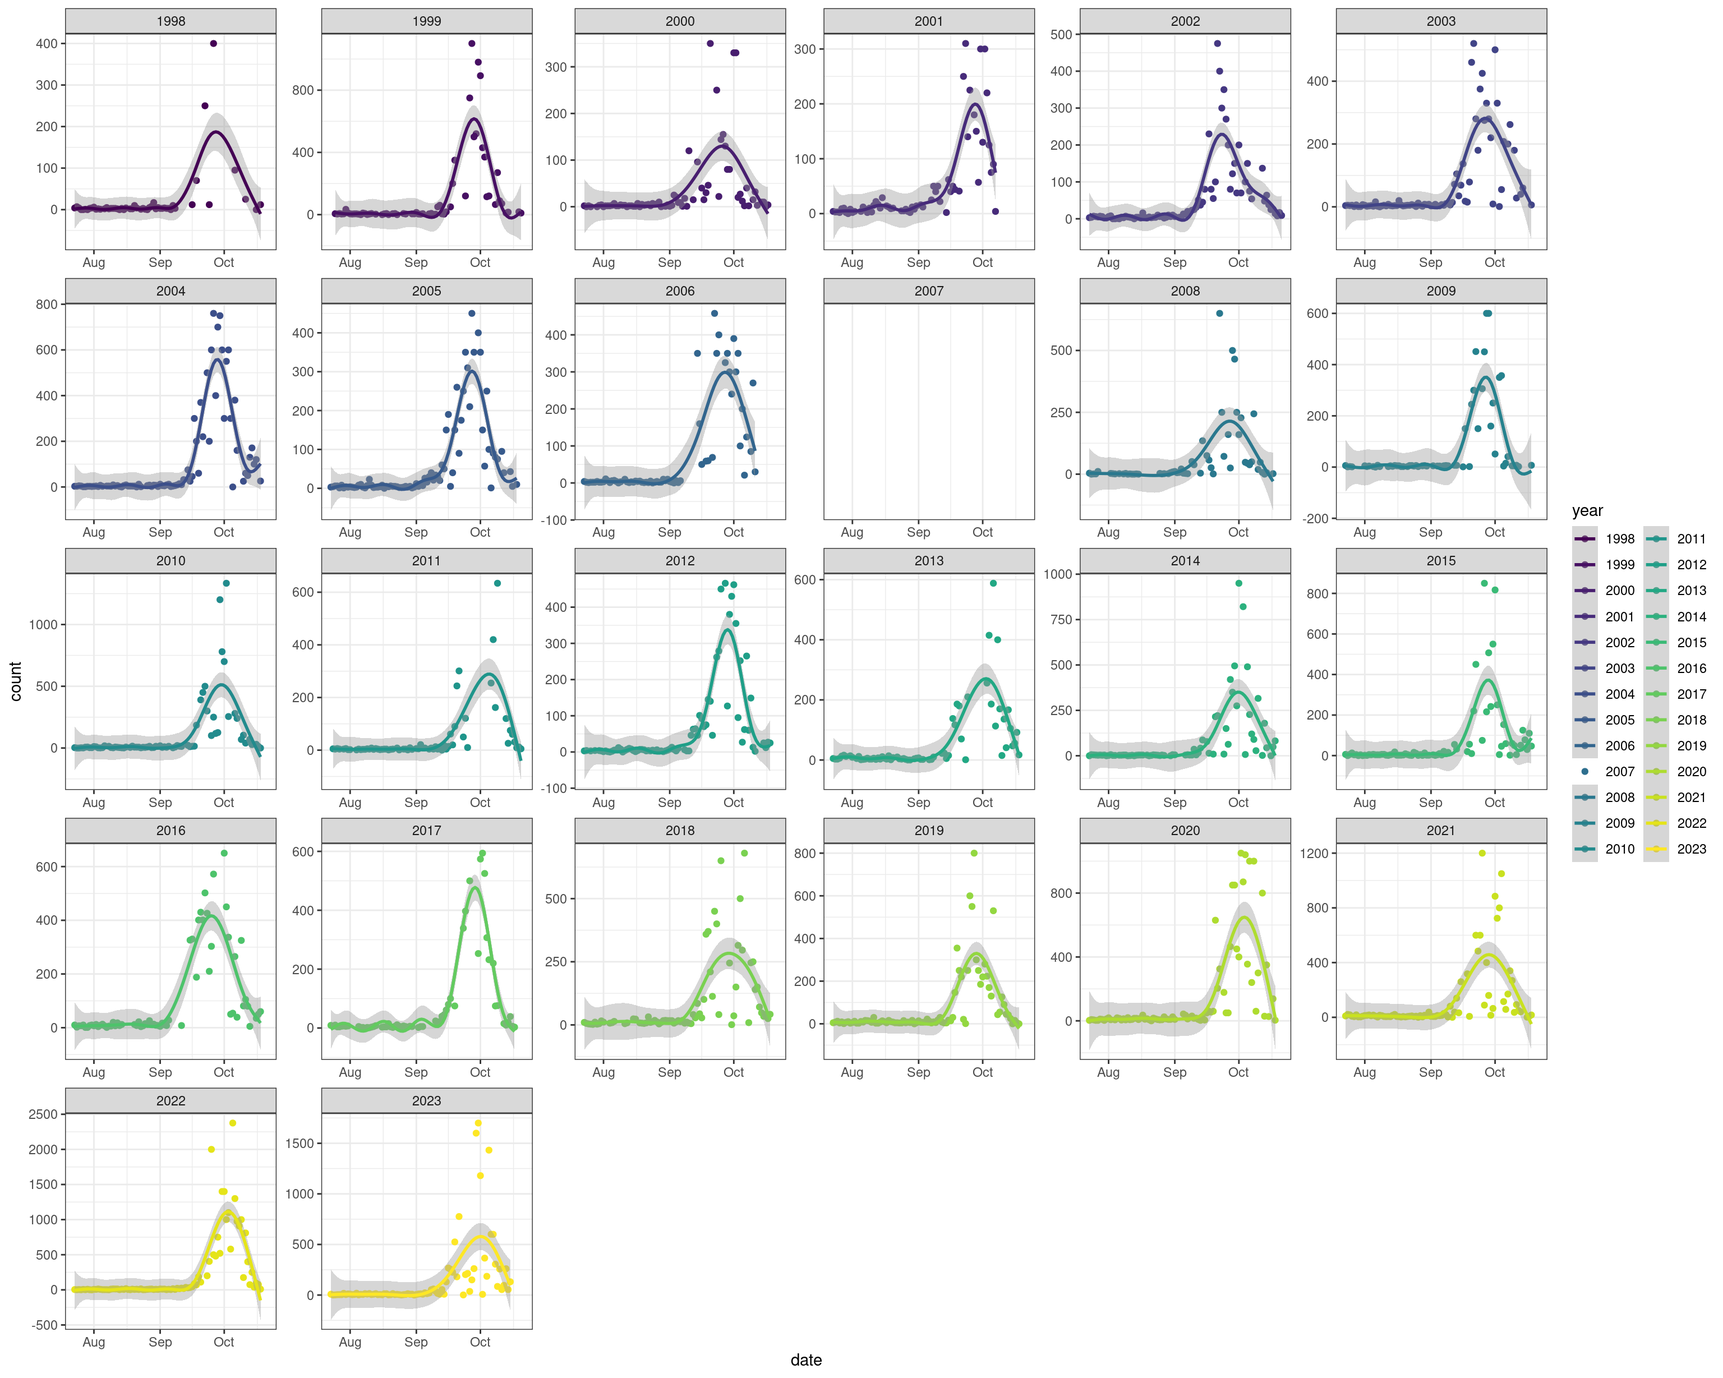
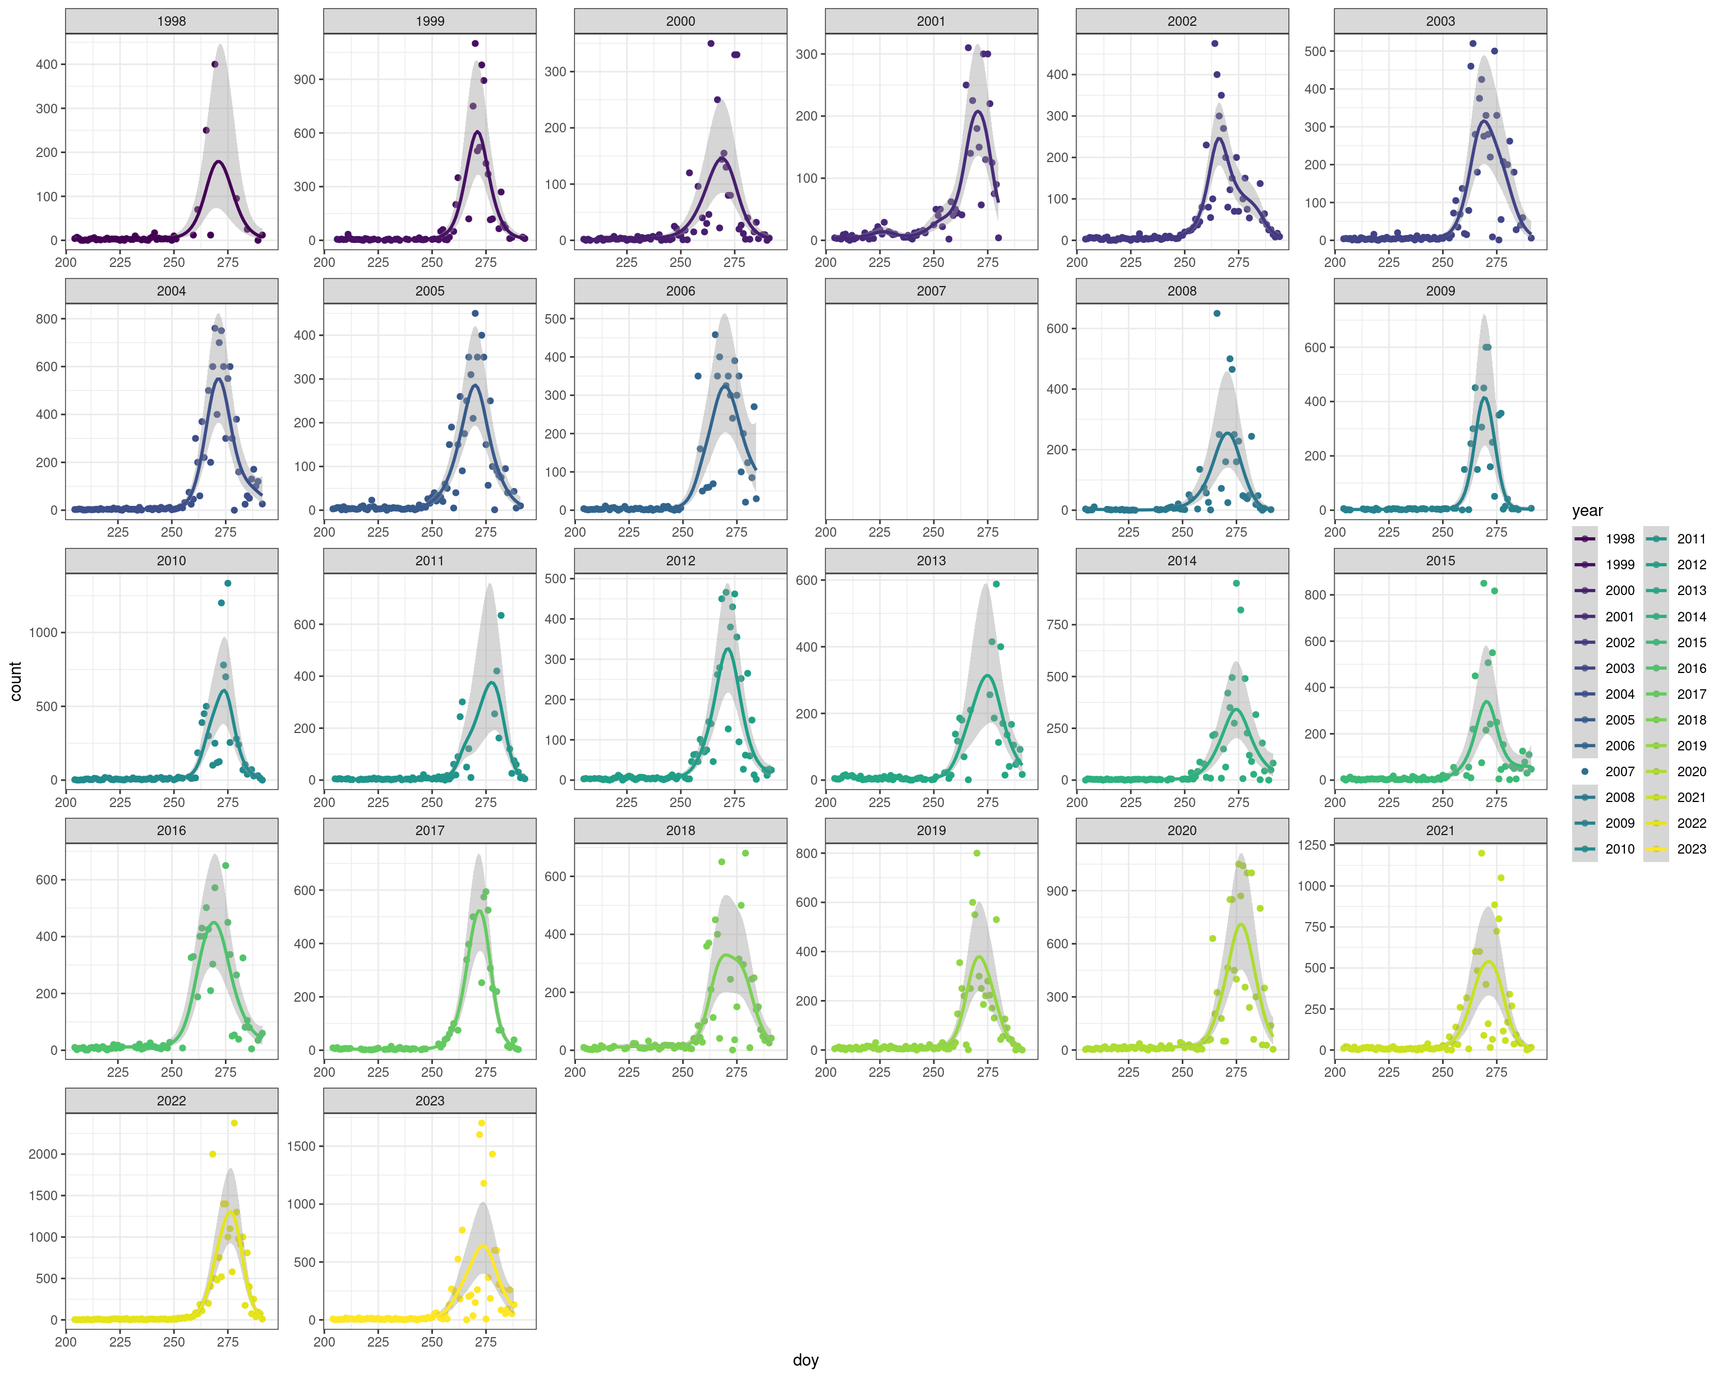
Update initial look to match GAMs used later

diff --git a/docs/01_initial_exploration.html b/docs/01_initial_exploration.html
@@ -7,7 +7,7 @@
 <meta name="viewport" content="width=device-width, initial-scale=1.0, user-scalable=yes">
 
 <meta name="author" content="Steffi LaZerte">
-<meta name="dcterms.date" content="2024-05-23">
+<meta name="dcterms.date" content="2024-07-05">
 
 <title>Vulture Migration on Vancouver Island - Initial Exploration</title>
 <style>
@@ -265,7 +265,7 @@ pre > code.sourceCode > span > a:first-child::before { text-decoration: underlin
     <div>
     <div class="quarto-title-meta-heading">Published</div>
     <div class="quarto-title-meta-contents">
-      <p class="date">May 23, 2024</p>
+      <p class="date">July 5, 2024</p>
     </div>
   </div>
   
@@ -417,12 +417,14 @@ pre > code.sourceCode > span > a:first-child::before { text-decoration: underlin
 <h2 class="anchored" data-anchor-id="quick-look-at-the-data">Quick look at the data</h2>
 <p><strong>Too see full screen: Right-click and select “Open Image in New Tab” (or similar)</strong></p>
 <div class="cell">
-<div class="sourceCode cell-code" id="cb13"><pre class="sourceCode r code-with-copy"><code class="sourceCode r"><span id="cb13-1"><a href="#cb13-1" aria-hidden="true" tabindex="-1"></a><span class="fu">ggplot</span>(v, <span class="fu">aes</span>(<span class="at">x =</span> date, <span class="at">y =</span> count, <span class="at">group =</span> year, <span class="at">colour =</span> year)) <span class="sc">+</span></span>
+<div class="sourceCode cell-code" id="cb13"><pre class="sourceCode r code-with-copy"><code class="sourceCode r"><span id="cb13-1"><a href="#cb13-1" aria-hidden="true" tabindex="-1"></a><span class="fu">ggplot</span>(v, <span class="fu">aes</span>(<span class="at">x =</span> doy, <span class="at">y =</span> count, <span class="at">group =</span> year, <span class="at">colour =</span> year)) <span class="sc">+</span></span>
 <span id="cb13-2"><a href="#cb13-2" aria-hidden="true" tabindex="-1"></a>  <span class="fu">theme_bw</span>() <span class="sc">+</span></span>
 <span id="cb13-3"><a href="#cb13-3" aria-hidden="true" tabindex="-1"></a>  <span class="fu">geom_point</span>(<span class="at">na.rm =</span> <span class="cn">TRUE</span>) <span class="sc">+</span></span>
-<span id="cb13-4"><a href="#cb13-4" aria-hidden="true" tabindex="-1"></a>  <span class="fu">stat_smooth</span>(<span class="at">method =</span> <span class="st">"gam"</span>, <span class="at">formula =</span> y <span class="sc">~</span> <span class="fu">s</span>(x, <span class="at">k =</span> <span class="dv">10</span>), <span class="at">na.rm =</span> <span class="cn">TRUE</span>) <span class="sc">+</span></span>
-<span id="cb13-5"><a href="#cb13-5" aria-hidden="true" tabindex="-1"></a>  <span class="fu">facet_wrap</span>(<span class="sc">~</span>year, <span class="at">scales =</span> <span class="st">"free"</span>) <span class="sc">+</span></span>
-<span id="cb13-6"><a href="#cb13-6" aria-hidden="true" tabindex="-1"></a>  <span class="fu">scale_colour_viridis_d</span>()</span></code><button title="Copy to Clipboard" class="code-copy-button"><i class="bi"></i></button></pre></div>
+<span id="cb13-4"><a href="#cb13-4" aria-hidden="true" tabindex="-1"></a>  <span class="fu">stat_smooth</span>(<span class="at">method =</span> <span class="st">"gam"</span>, <span class="at">formula =</span> y <span class="sc">~</span> <span class="fu">s</span>(x, <span class="at">k =</span> <span class="dv">20</span>), </span>
+<span id="cb13-5"><a href="#cb13-5" aria-hidden="true" tabindex="-1"></a>              <span class="at">method.args =</span> <span class="fu">list</span>(<span class="at">method =</span> <span class="st">"REML"</span>, <span class="at">family =</span> <span class="st">"nb"</span>), <span class="at">na.rm =</span> <span class="cn">TRUE</span>, </span>
+<span id="cb13-6"><a href="#cb13-6" aria-hidden="true" tabindex="-1"></a>              <span class="at">level =</span> <span class="fl">0.95</span>) <span class="sc">+</span></span>
+<span id="cb13-7"><a href="#cb13-7" aria-hidden="true" tabindex="-1"></a>  <span class="fu">facet_wrap</span>(<span class="sc">~</span>year, <span class="at">scales =</span> <span class="st">"free"</span>) <span class="sc">+</span></span>
+<span id="cb13-8"><a href="#cb13-8" aria-hidden="true" tabindex="-1"></a>  <span class="fu">scale_colour_viridis_d</span>()</span></code><button title="Copy to Clipboard" class="code-copy-button"><i class="bi"></i></button></pre></div>
 <div class="cell-output-display">
 <div>
 <figure class="figure">
@@ -580,7 +582,7 @@ Basis dimension (k) checking results. Low p-value (k-index&lt;1) may
 indicate that k is too low, especially if edf is close to k'.
 
          k'  edf k-index p-value
-s(doy) 9.00 5.48    1.01    0.77</code></pre>
+s(doy) 9.00 5.48    1.01    0.76</code></pre>
 </div>
 <details class="code-fold">
 <summary>Code</summary>
@@ -722,7 +724,8 @@ s(doy) 9.00 5.48    1.01    0.77</code></pre>
 </details>
 <div class="cell-output cell-output-stderr">
 <pre><code>Warning in geom_point(x = d$doy[d$ci99_upper == min(d$ci99_upper)], y = min(d$ci99_upper), : All aesthetics have length 1, but the data has 87 rows.
-ℹ Did you mean to use `annotate()`?</code></pre>
+ℹ Please consider using `annotate()` or provide this layer with data containing
+  a single row.</code></pre>
 </div>
 <div class="cell-output cell-output-stderr">
 <pre><code>Warning: Use of `d$ci99_upper` is discouraged.
@@ -892,118 +895,119 @@ Session Info
  collate  en_CA.UTF-8
  ctype    en_CA.UTF-8
  tz       America/Winnipeg
- date     2024-05-23
+ date     2024-07-05
  pandoc   3.1.1 @ /usr/lib/rstudio/resources/app/bin/quarto/bin/tools/ (via rmarkdown)
 
 ─ Packages ───────────────────────────────────────────────────────────────────
- package      * version    date (UTC) lib source
- bit            4.0.5      2022-11-15 [1] CRAN (R 4.3.0)
- bit64          4.0.5      2020-08-30 [1] CRAN (R 4.3.0)
- boot           1.3-30     2024-02-26 [4] CRAN (R 4.3.3)
- cachem         1.0.8      2023-05-01 [1] CRAN (R 4.3.0)
- cellranger     1.1.0      2016-07-27 [1] CRAN (R 4.3.0)
- cli            3.6.2      2023-12-11 [1] CRAN (R 4.3.2)
- codetools      0.2-19     2023-02-01 [4] CRAN (R 4.2.2)
- colorspace     2.1-0      2023-01-23 [1] CRAN (R 4.3.0)
- crayon         1.5.2      2022-09-29 [1] CRAN (R 4.3.0)
- devtools       2.4.5      2022-10-11 [1] CRAN (R 4.3.0)
- DHARMa         0.4.6      2022-09-08 [1] CRAN (R 4.3.1)
- digest         0.6.34     2024-01-11 [1] CRAN (R 4.3.2)
- doParallel     1.0.17     2022-02-07 [1] CRAN (R 4.3.1)
- dplyr        * 1.1.4      2023-11-17 [1] CRAN (R 4.3.2)
- ellipsis       0.3.2      2021-04-29 [1] CRAN (R 4.3.0)
- evaluate       0.23       2023-11-01 [1] CRAN (R 4.3.1)
- fansi          1.0.6      2023-12-08 [1] CRAN (R 4.3.2)
- farver         2.1.1      2022-07-06 [1] CRAN (R 4.3.0)
- fastmap        1.1.1      2023-02-24 [1] CRAN (R 4.3.0)
- forcats      * 1.0.0      2023-01-29 [1] CRAN (R 4.3.0)
- foreach        1.5.2      2022-02-02 [1] CRAN (R 4.3.0)
- fs             1.6.3      2023-07-20 [1] CRAN (R 4.3.1)
- gamm4          0.2-6      2020-04-03 [1] CRAN (R 4.3.1)
- gap            1.5-3      2023-08-26 [1] CRAN (R 4.3.1)
- gap.datasets   0.0.6      2023-08-25 [1] CRAN (R 4.3.1)
- generics       0.1.3      2022-07-05 [1] CRAN (R 4.3.0)
- GGally         2.1.2      2021-06-21 [1] CRAN (R 4.3.1)
- ggplot2      * 3.5.0      2024-02-23 [1] CRAN (R 4.3.2)
- glue           1.7.0      2024-01-09 [1] CRAN (R 4.3.2)
- gridExtra      2.3        2017-09-09 [1] CRAN (R 4.3.0)
- gtable         0.3.4      2023-08-21 [1] CRAN (R 4.3.1)
- hms            1.1.3      2023-03-21 [1] CRAN (R 4.3.0)
- htmltools      0.5.7      2023-11-03 [1] CRAN (R 4.3.1)
- htmlwidgets    1.6.4      2023-12-06 [1] CRAN (R 4.3.2)
- httpuv         1.6.14     2024-01-26 [1] CRAN (R 4.3.2)
- iterators      1.0.14     2022-02-05 [1] CRAN (R 4.3.0)
- jsonlite       1.8.8      2023-12-04 [1] CRAN (R 4.3.2)
- KernSmooth     2.23-22    2023-07-10 [1] CRAN (R 4.3.1)
- knitr          1.45       2023-10-30 [1] CRAN (R 4.3.1)
- labeling       0.4.3      2023-08-29 [1] CRAN (R 4.3.1)
- later          1.3.2      2023-12-06 [1] CRAN (R 4.3.2)
- lattice        0.22-5     2023-10-24 [4] CRAN (R 4.3.1)
- lifecycle      1.0.4      2023-11-07 [1] CRAN (R 4.3.2)
- lme4           1.1-35.1   2023-11-05 [1] CRAN (R 4.3.1)
- lubridate    * 1.9.3      2023-09-27 [1] CRAN (R 4.3.1)
- magrittr       2.0.3      2022-03-30 [1] CRAN (R 4.3.0)
- MASS           7.3-60.0.1 2024-01-13 [1] CRAN (R 4.3.2)
- Matrix         1.6-5      2024-01-11 [1] CRAN (R 4.3.2)
- matrixStats    1.0.0      2023-06-02 [1] CRAN (R 4.3.1)
- memoise        2.0.1      2021-11-26 [1] CRAN (R 4.3.0)
- mgcv         * 1.9-0      2023-07-11 [1] CRAN (R 4.3.1)
- mgcViz         0.1.11     2023-10-06 [1] CRAN (R 4.3.1)
- mime           0.12       2021-09-28 [1] CRAN (R 4.3.0)
- miniUI         0.1.1.1    2018-05-18 [1] CRAN (R 4.3.0)
- minqa          1.2.6      2023-09-11 [1] CRAN (R 4.3.1)
- munsell        0.5.0      2018-06-12 [1] CRAN (R 4.3.0)
- nlme         * 3.1-164    2023-11-27 [1] CRAN (R 4.3.2)
- nloptr         2.0.3      2022-05-26 [1] CRAN (R 4.3.0)
- patchwork    * 1.2.0      2024-01-08 [1] CRAN (R 4.3.2)
- pillar         1.9.0      2023-03-22 [1] CRAN (R 4.3.0)
- pkgbuild       1.4.3      2023-12-10 [1] CRAN (R 4.3.2)
- pkgconfig      2.0.3      2019-09-22 [1] CRAN (R 4.3.0)
- pkgload        1.3.3      2023-09-22 [1] CRAN (R 4.3.1)
- plyr           1.8.9      2023-10-02 [1] CRAN (R 4.3.1)
- profvis        0.3.8      2023-05-02 [1] CRAN (R 4.3.1)
- promises       1.2.1      2023-08-10 [1] CRAN (R 4.3.1)
- purrr        * 1.0.2      2023-08-10 [1] CRAN (R 4.3.1)
- qgam           1.3.4      2021-11-22 [1] CRAN (R 4.3.1)
- R6             2.5.1      2021-08-19 [1] CRAN (R 4.3.0)
- rbibutils      2.2.16     2023-10-25 [1] CRAN (R 4.3.1)
- RColorBrewer   1.1-3      2022-04-03 [1] CRAN (R 4.3.0)
- Rcpp           1.0.12     2024-01-09 [1] CRAN (R 4.3.2)
- Rdpack         2.5        2023-08-21 [1] CRAN (R 4.3.1)
- readr        * 2.1.5      2024-01-10 [1] CRAN (R 4.3.2)
- readxl       * 1.4.3      2023-07-06 [1] CRAN (R 4.3.1)
- remotes        2.4.2.1    2023-07-18 [1] CRAN (R 4.3.2)
- reshape        0.8.9      2022-04-12 [1] CRAN (R 4.3.1)
- rlang          1.1.3      2024-01-10 [1] CRAN (R 4.3.2)
- rmarkdown      2.25       2023-09-18 [1] CRAN (R 4.3.1)
- rstudioapi     0.15.0     2023-07-07 [1] CRAN (R 4.3.1)
- scales         1.3.0      2023-11-28 [1] CRAN (R 4.3.2)
- sessioninfo    1.2.2      2021-12-06 [1] CRAN (R 4.3.0)
- shiny          1.8.0      2023-11-17 [1] CRAN (R 4.3.2)
- stringi        1.8.3      2023-12-11 [1] CRAN (R 4.3.2)
- stringr      * 1.5.1      2023-11-14 [1] CRAN (R 4.3.2)
- tibble       * 3.2.1      2023-03-20 [1] CRAN (R 4.3.0)
- tidyr        * 1.3.1      2024-01-24 [1] CRAN (R 4.3.2)
- tidyselect     1.2.0      2022-10-10 [1] CRAN (R 4.3.0)
- tidyverse    * 2.0.0      2023-02-22 [1] CRAN (R 4.3.0)
- timechange     0.3.0      2024-01-18 [1] CRAN (R 4.3.2)
- tzdb           0.4.0      2023-05-12 [1] CRAN (R 4.3.1)
- urlchecker     1.0.1      2021-11-30 [1] CRAN (R 4.3.0)
- usethis        2.2.2      2023-07-06 [1] CRAN (R 4.3.1)
- utf8           1.2.4      2023-10-22 [1] CRAN (R 4.3.1)
- vctrs          0.6.5      2023-12-01 [1] CRAN (R 4.3.2)
- viridis        0.6.5      2024-01-29 [1] CRAN (R 4.3.2)
- viridisLite    0.4.2      2023-05-02 [1] CRAN (R 4.3.1)
- vroom          1.6.5      2023-12-05 [1] CRAN (R 4.3.2)
- withr          3.0.0      2024-01-16 [1] CRAN (R 4.3.2)
- xfun           0.42       2024-02-08 [1] CRAN (R 4.3.2)
- xtable         1.8-4      2019-04-21 [1] CRAN (R 4.3.0)
- yaml           2.3.8      2023-12-11 [1] CRAN (R 4.3.2)
+ ! package      * version  date (UTC) lib source
+ P bit            4.0.5    2022-11-15 [?] CRAN (R 4.4.0)
+ P bit64          4.0.5    2020-08-30 [?] CRAN (R 4.4.0)
+ P boot           1.3-30   2024-02-26 [?] CRAN (R 4.3.3)
+ P cachem         1.1.0    2024-05-16 [?] CRAN (R 4.4.0)
+ P cellranger     1.1.0    2016-07-27 [?] CRAN (R 4.4.0)
+ P cli            3.6.2    2023-12-11 [?] CRAN (R 4.4.0)
+ P codetools      0.2-19   2023-02-01 [?] CRAN (R 4.2.2)
+ P colorspace     2.1-0    2023-01-23 [?] CRAN (R 4.4.0)
+ P crayon         1.5.2    2022-09-29 [?] CRAN (R 4.4.0)
+ P devtools       2.4.5    2022-10-11 [?] CRAN (R 4.4.0)
+ P DHARMa         0.4.6    2022-09-08 [?] CRAN (R 4.4.0)
+ P digest         0.6.35   2024-03-11 [?] CRAN (R 4.4.0)
+ P doParallel     1.0.17   2022-02-07 [?] CRAN (R 4.4.0)
+ P dplyr        * 1.1.4    2023-11-17 [?] CRAN (R 4.4.0)
+ P ellipsis       0.3.2    2021-04-29 [?] CRAN (R 4.4.0)
+ P evaluate       0.23     2023-11-01 [?] CRAN (R 4.4.0)
+ P fansi          1.0.6    2023-12-08 [?] CRAN (R 4.4.0)
+ P farver         2.1.2    2024-05-13 [?] CRAN (R 4.4.0)
+ P fastmap        1.2.0    2024-05-15 [?] CRAN (R 4.4.0)
+ P forcats      * 1.0.0    2023-01-29 [?] CRAN (R 4.4.0)
+ P foreach        1.5.2    2022-02-02 [?] CRAN (R 4.4.0)
+ P fs             1.6.4    2024-04-25 [?] CRAN (R 4.4.0)
+ P gamm4          0.2-6    2020-04-03 [?] CRAN (R 4.4.0)
+ P gap            1.5-3    2023-08-26 [?] CRAN (R 4.4.0)
+ P gap.datasets   0.0.6    2023-08-25 [?] CRAN (R 4.4.0)
+ P generics       0.1.3    2022-07-05 [?] CRAN (R 4.4.0)
+ P GGally         2.2.1    2024-02-14 [?] CRAN (R 4.4.0)
+ P ggplot2      * 3.5.1    2024-04-23 [?] CRAN (R 4.4.0)
+ P ggstats        0.6.0    2024-04-05 [?] CRAN (R 4.4.0)
+ P glue           1.7.0    2024-01-09 [?] CRAN (R 4.4.0)
+ P gridExtra      2.3      2017-09-09 [?] CRAN (R 4.4.0)
+ P gtable         0.3.5    2024-04-22 [?] CRAN (R 4.4.0)
+ P hms            1.1.3    2023-03-21 [?] CRAN (R 4.4.0)
+ P htmltools      0.5.8.1  2024-04-04 [?] CRAN (R 4.4.0)
+ P htmlwidgets    1.6.4    2023-12-06 [?] CRAN (R 4.4.0)
+ P httpuv         1.6.15   2024-03-26 [?] CRAN (R 4.4.0)
+ P iterators      1.0.14   2022-02-05 [?] CRAN (R 4.4.0)
+ P jsonlite       1.8.8    2023-12-04 [?] CRAN (R 4.4.0)
+ P KernSmooth     2.23-24  2024-05-17 [?] CRAN (R 4.4.0)
+ P knitr          1.47     2024-05-29 [?] CRAN (R 4.4.0)
+ P labeling       0.4.3    2023-08-29 [?] CRAN (R 4.4.0)
+ P later          1.3.2    2023-12-06 [?] CRAN (R 4.4.0)
+ P lattice        0.22-5   2023-10-24 [?] CRAN (R 4.3.1)
+ P lifecycle      1.0.4    2023-11-07 [?] CRAN (R 4.4.0)
+ P lme4           1.1-35.3 2024-04-16 [?] CRAN (R 4.4.0)
+ P lubridate    * 1.9.3    2023-09-27 [?] CRAN (R 4.4.0)
+ P magrittr       2.0.3    2022-03-30 [?] CRAN (R 4.4.0)
+ P MASS           7.3-60   2023-05-04 [?] CRAN (R 4.3.1)
+ P Matrix         1.6-5    2024-01-11 [?] CRAN (R 4.3.3)
+ P matrixStats    1.3.0    2024-04-11 [?] CRAN (R 4.4.0)
+ P memoise        2.0.1    2021-11-26 [?] CRAN (R 4.4.0)
+ P mgcv         * 1.9-1    2023-12-21 [?] CRAN (R 4.3.2)
+ P mgcViz         0.1.11   2023-10-06 [?] CRAN (R 4.4.0)
+ P mime           0.12     2021-09-28 [?] CRAN (R 4.4.0)
+ P miniUI         0.1.1.1  2018-05-18 [?] CRAN (R 4.4.0)
+ P minqa          1.2.6    2023-09-11 [?] CRAN (R 4.4.0)
+ P munsell        0.5.1    2024-04-01 [?] CRAN (R 4.4.0)
+ P nlme         * 3.1-165  2024-06-06 [?] CRAN (R 4.4.0)
+ P nloptr         2.0.3    2022-05-26 [?] CRAN (R 4.4.0)
+ P patchwork    * 1.2.0    2024-01-08 [?] CRAN (R 4.4.0)
+ P pillar         1.9.0    2023-03-22 [?] CRAN (R 4.4.0)
+ P pkgbuild       1.4.4    2024-03-17 [?] CRAN (R 4.4.0)
+ P pkgconfig      2.0.3    2019-09-22 [?] CRAN (R 4.4.0)
+ P pkgload        1.3.4    2024-01-16 [?] CRAN (R 4.4.0)
+ P plyr           1.8.9    2023-10-02 [?] CRAN (R 4.4.0)
+ P profvis        0.3.8    2023-05-02 [?] CRAN (R 4.4.0)
+ P promises       1.3.0    2024-04-05 [?] CRAN (R 4.4.0)
+ P purrr        * 1.0.2    2023-08-10 [?] CRAN (R 4.4.0)
+ P qgam           1.3.4    2021-11-22 [?] CRAN (R 4.4.0)
+ P R6             2.5.1    2021-08-19 [?] CRAN (R 4.4.0)
+ P rbibutils      2.2.16   2023-10-25 [?] CRAN (R 4.4.0)
+ P RColorBrewer   1.1-3    2022-04-03 [?] CRAN (R 4.4.0)
+ P Rcpp           1.0.12   2024-01-09 [?] CRAN (R 4.4.0)
+ P Rdpack         2.6      2023-11-08 [?] CRAN (R 4.4.0)
+ P readr        * 2.1.5    2024-01-10 [?] CRAN (R 4.4.0)
+ P readxl       * 1.4.3    2023-07-06 [?] CRAN (R 4.4.0)
+ P remotes        2.5.0    2024-03-17 [?] CRAN (R 4.4.0)
+   renv           1.0.7    2024-04-11 [1] CRAN (R 4.4.0)
+ P rlang          1.1.3    2024-01-10 [?] CRAN (R 4.4.0)
+ P rmarkdown      2.27     2024-05-17 [?] CRAN (R 4.4.0)
+ P rstudioapi     0.16.0   2024-03-24 [?] CRAN (R 4.4.0)
+ P scales         1.3.0    2023-11-28 [?] CRAN (R 4.4.0)
+ P sessioninfo    1.2.2    2021-12-06 [?] CRAN (R 4.4.0)
+ P shiny          1.8.1.1  2024-04-02 [?] CRAN (R 4.4.0)
+ P stringi        1.8.4    2024-05-06 [?] CRAN (R 4.4.0)
+ P stringr      * 1.5.1    2023-11-14 [?] CRAN (R 4.4.0)
+ P tibble       * 3.2.1    2023-03-20 [?] CRAN (R 4.4.0)
+ P tidyr        * 1.3.1    2024-01-24 [?] CRAN (R 4.4.0)
+ P tidyselect     1.2.1    2024-03-11 [?] CRAN (R 4.4.0)
+ P tidyverse    * 2.0.0    2023-02-22 [?] CRAN (R 4.4.0)
+ P timechange     0.3.0    2024-01-18 [?] CRAN (R 4.4.0)
+ P tzdb           0.4.0    2023-05-12 [?] CRAN (R 4.4.0)
+ P urlchecker     1.0.1    2021-11-30 [?] CRAN (R 4.4.0)
+ P usethis        2.2.3    2024-02-19 [?] CRAN (R 4.4.0)
+ P utf8           1.2.4    2023-10-22 [?] CRAN (R 4.4.0)
+ P vctrs          0.6.5    2023-12-01 [?] CRAN (R 4.4.0)
+ P viridis        0.6.5    2024-01-29 [?] CRAN (R 4.4.0)
+ P viridisLite    0.4.2    2023-05-02 [?] CRAN (R 4.4.0)
+ P vroom          1.6.5    2023-12-05 [?] CRAN (R 4.4.0)
+ P withr          3.0.0    2024-01-16 [?] CRAN (R 4.4.0)
+ P xfun           0.44     2024-05-15 [?] CRAN (R 4.4.0)
+ P xtable         1.8-4    2019-04-21 [?] CRAN (R 4.4.0)
+ P yaml           2.3.8    2023-12-11 [?] CRAN (R 4.4.0)
 
- [1] /home/steffi/R/x86_64-pc-linux-gnu-library/4.3
- [2] /usr/local/lib/R/site-library
- [3] /usr/lib/R/site-library
- [4] /usr/lib/R/library
+ [1] /home/steffi/Projects/vulture_migration/renv/library/linux-ubuntu-jammy/R-4.4/x86_64-pc-linux-gnu
+ [2] /home/steffi/.cache/R/renv/sandbox/linux-ubuntu-jammy/R-4.4/x86_64-pc-linux-gnu/9a444a72
+
+ P ── Loaded and on-disk path mismatch.
 
 ──────────────────────────────────────────────────────────────────────────────</code></pre>
 </div>
@@ -1420,7 +1424,7 @@ window.document.addEventListener("DOMContentLoaded", function (event) {
   </div>
 </nav>
 </div> <!-- /content -->
-<footer class="footer"><div class="nav-footer"><div class="nav-footer-center"><div class="toc-actions d-sm-block d-md-none"><ul><li><a href="https://github.com/steffilazerte/vulture_migration/edit/main/01_initial_exploration.qmd" class="toc-action"><i class="bi bi-github"></i>Edit this page</a></li><li><a href="https://github.com/steffilazerte/vulture_migration/issues/new" class="toc-action"><i class="bi empty"></i>Report an issue</a></li></ul></div></div></div></footer><script>var lightboxQuarto = GLightbox({"descPosition":"bottom","closeEffect":"zoom","loop":false,"selector":".lightbox","openEffect":"zoom"});
+<footer class="footer"><div class="nav-footer"><div class="nav-footer-center"><div class="toc-actions d-sm-block d-md-none"><ul><li><a href="https://github.com/steffilazerte/vulture_migration/edit/main/01_initial_exploration.qmd" class="toc-action"><i class="bi bi-github"></i>Edit this page</a></li><li><a href="https://github.com/steffilazerte/vulture_migration/issues/new" class="toc-action"><i class="bi empty"></i>Report an issue</a></li></ul></div></div></div></footer><script>var lightboxQuarto = GLightbox({"loop":false,"selector":".lightbox","openEffect":"zoom","descPosition":"bottom","closeEffect":"zoom"});
 window.onload = () => {
   lightboxQuarto.on('slide_before_load', (data) => {
     const { slideIndex, slideNode, slideConfig, player, trigger } = data;
